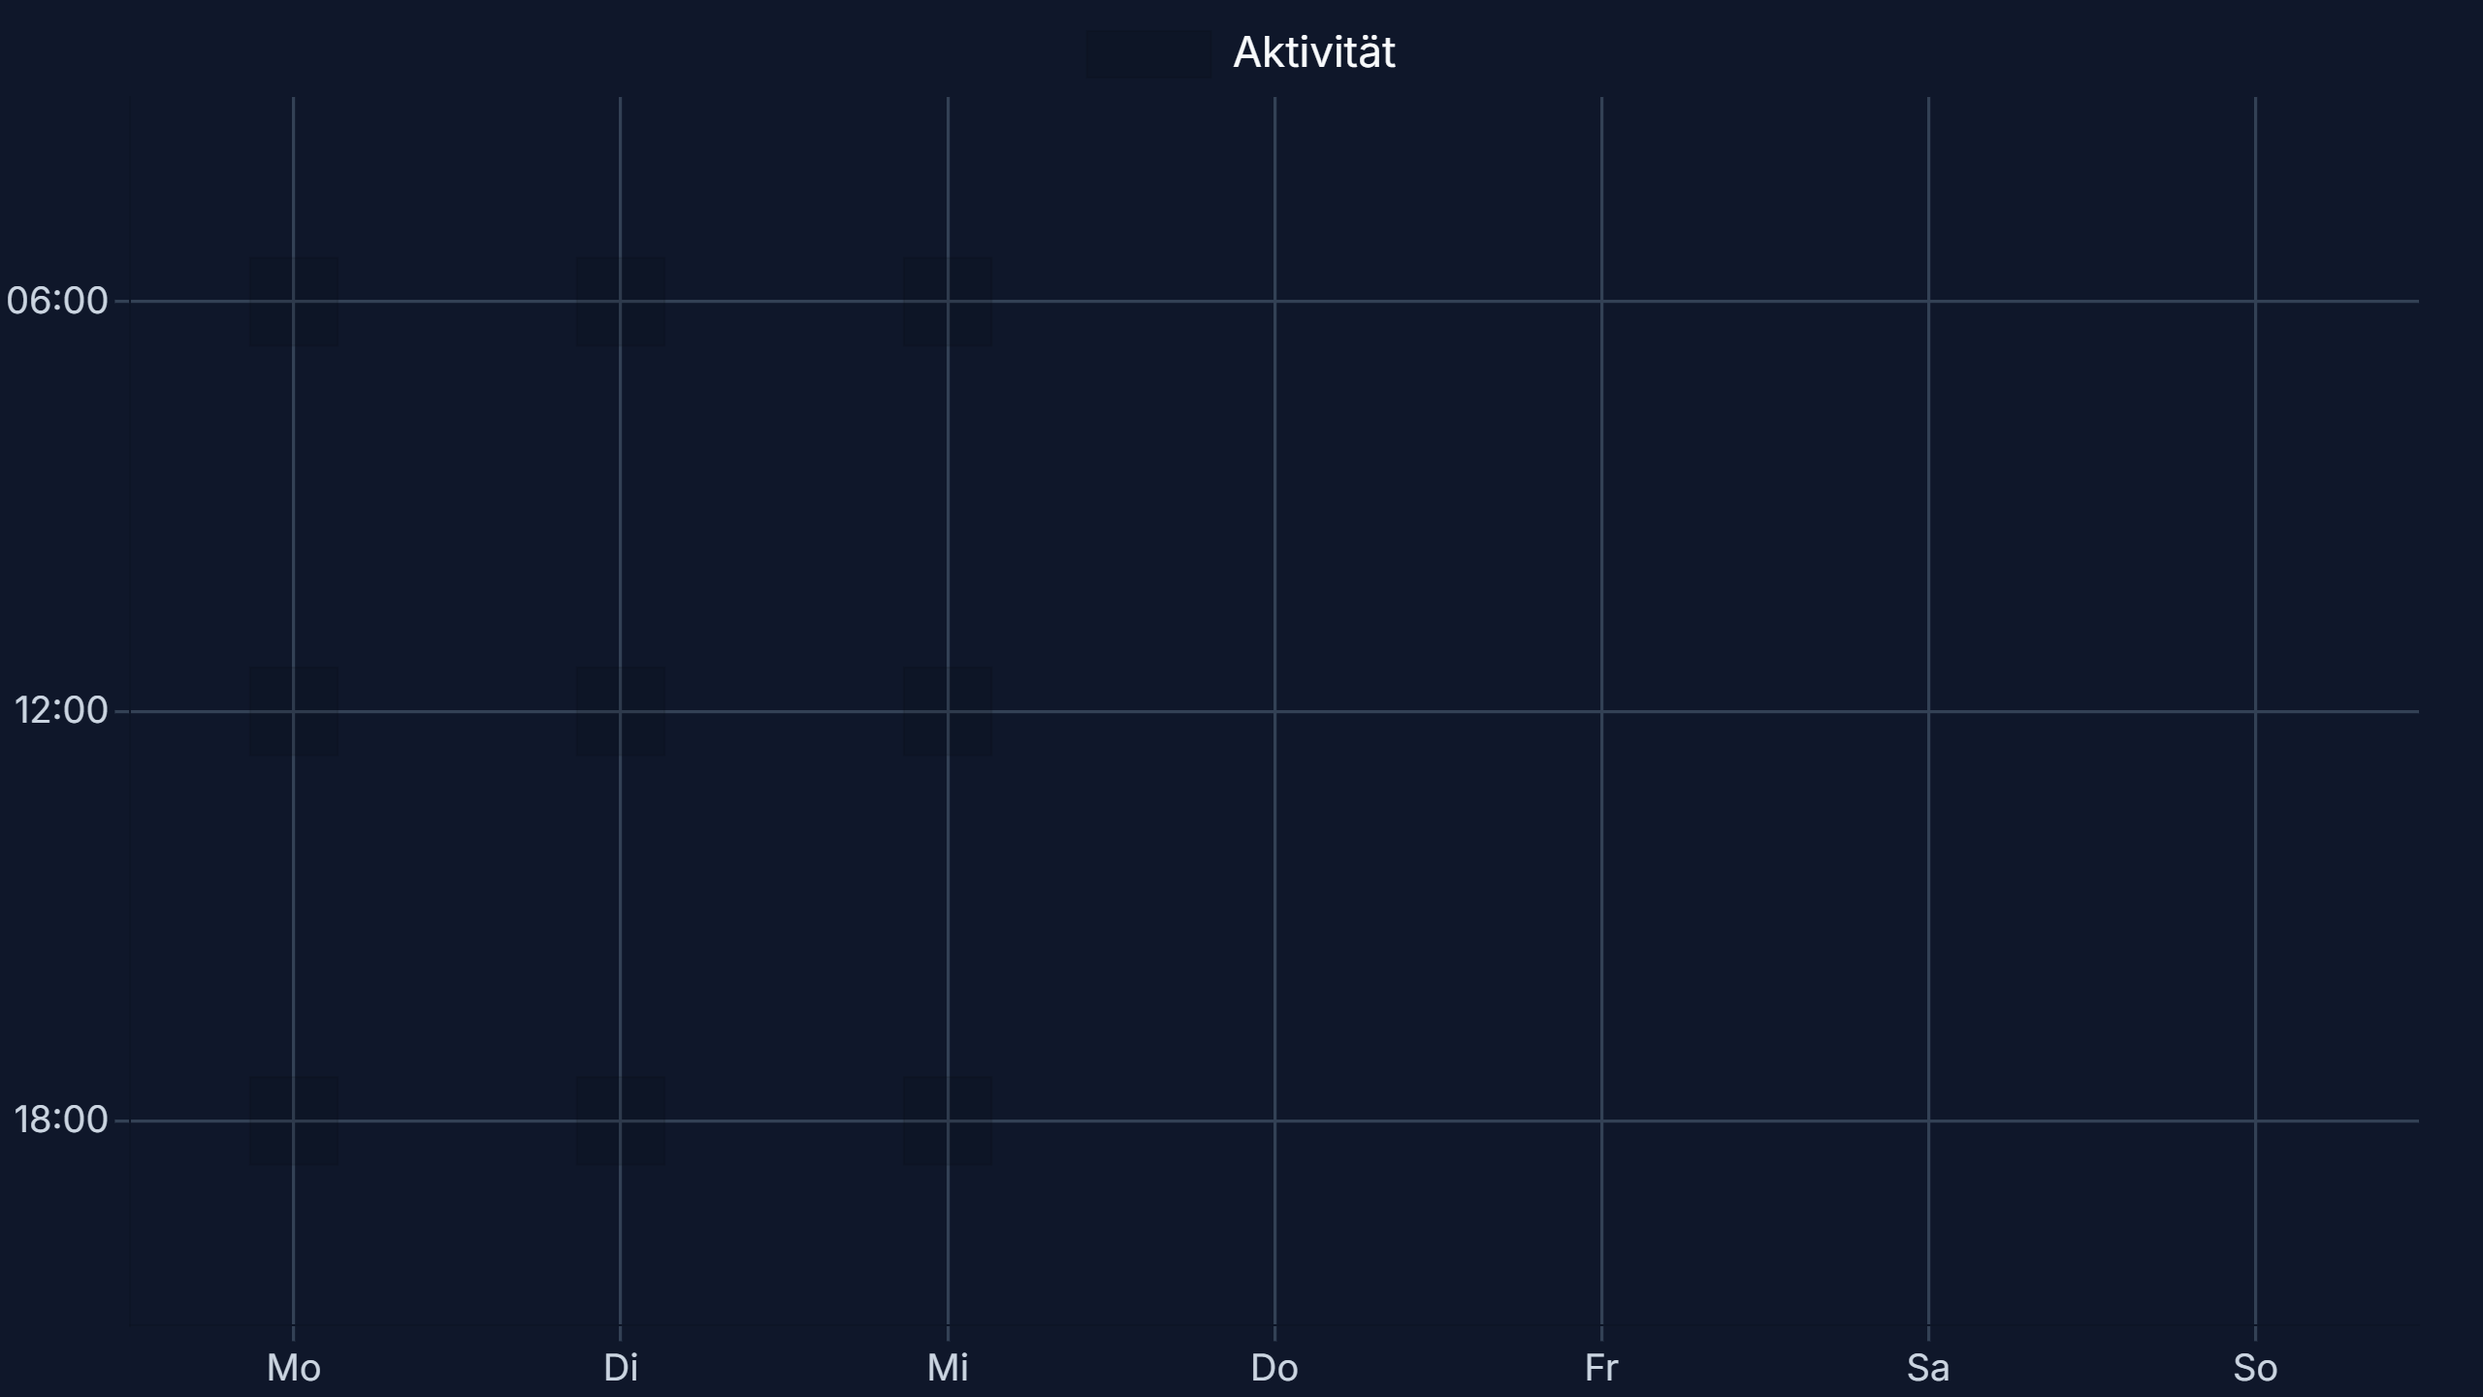
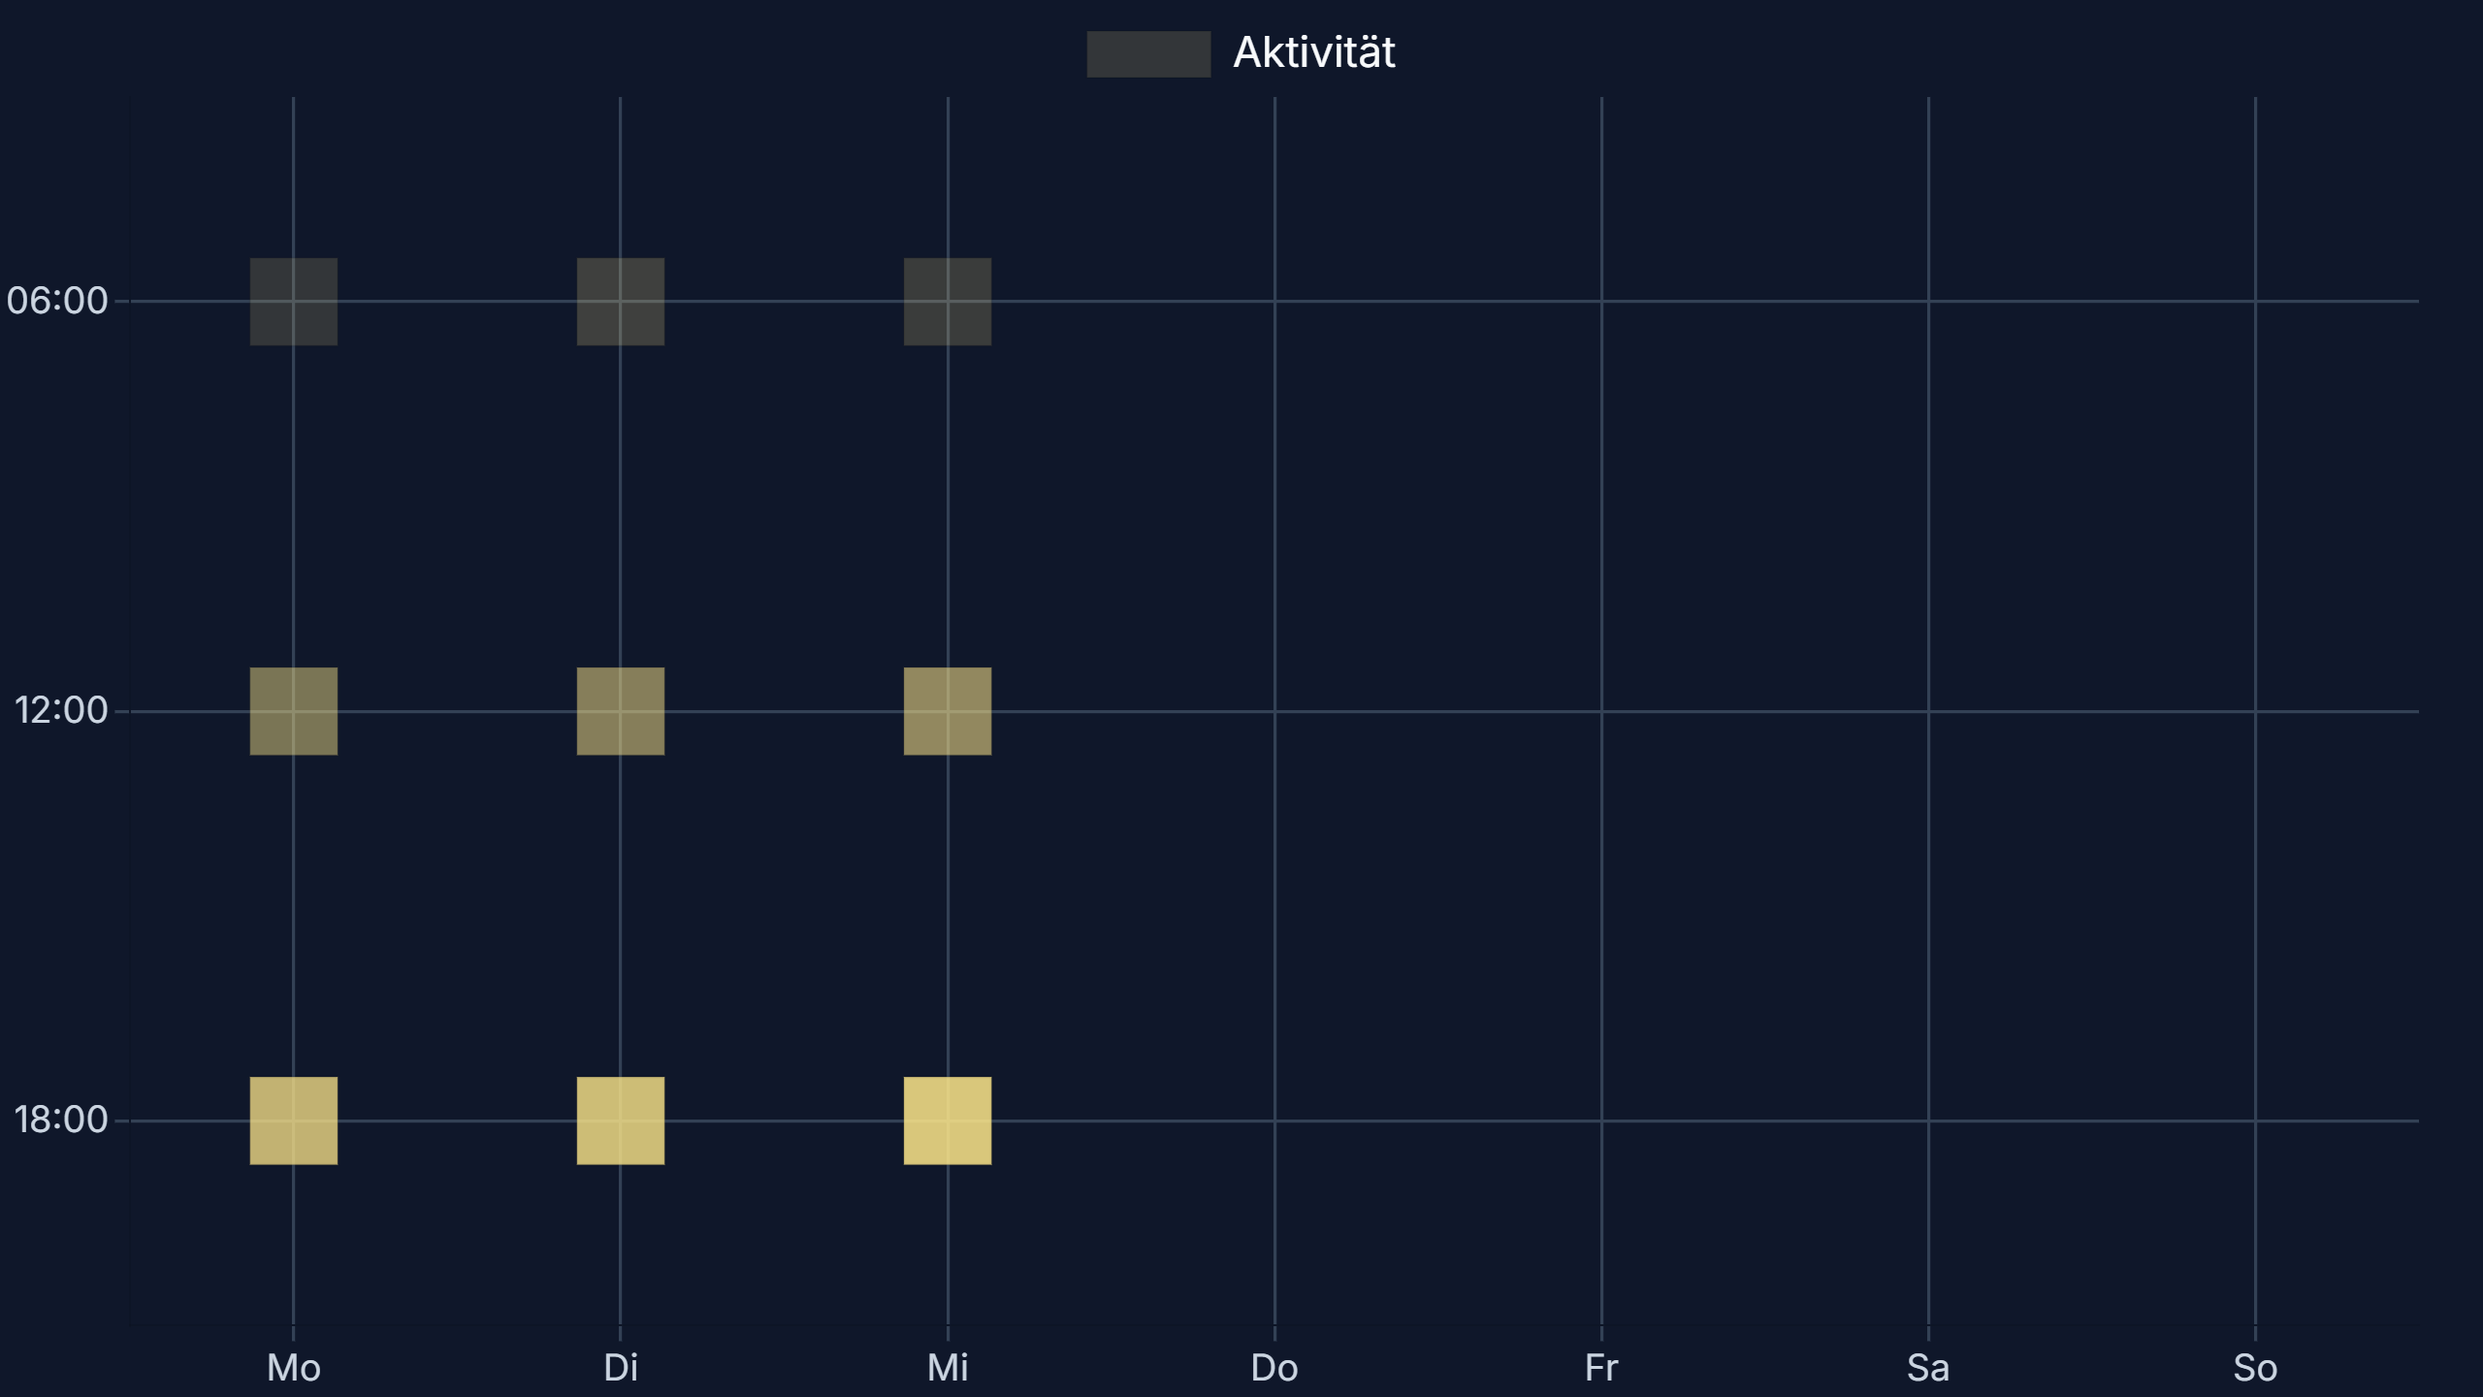
Fix Heatmap-Diagramm export

diff --git a/frontend/src/hooks/useExport.js b/frontend/src/hooks/useExport.js
@@ -243,29 +243,76 @@ export const useExport = () => {
         })
       }
 
-      // Scale ALL dataset properties proportionally to maintain visual consistency
-      // This ensures the export looks EXACTLY like the preview, just in higher resolution
-      chartConfig.data.datasets = chartConfig.data.datasets.map(ds => ({
-        ...ds,
-        // Scale all visual properties
-        borderWidth: scaleValue(ds.borderWidth),
-        pointRadius: scaleValue(ds.pointRadius),
-        pointHoverRadius: scaleValue(ds.pointHoverRadius),
-        pointBorderWidth: scaleValue(ds.pointBorderWidth),
-        borderRadius: scaleValue(ds.borderRadius),
-        barThickness: scaleValue(ds.barThickness),
-        minBarLength: scaleValue(ds.minBarLength),
-        hoverOffset: scaleValue(ds.hoverOffset),
-        // Scale border dash pattern if it exists
-        borderDash: ds.borderDash ? ds.borderDash.map(v => scaleValue(v)) : undefined,
-        // Keep non-numeric properties as-is
-        pointStyle: ds.pointStyle,
-        tension: ds.tension,
-        fill: ds.fill,
-        stepped: ds.stepped,
-        backgroundColor: ds.backgroundColor,
-        borderColor: ds.borderColor
-      }))
+      // Special handling for heatmap charts - recreate backgroundColor functions
+      if (chartType.id === 'heatmap' && chartConfig.data.datasets && Array.isArray(chartConfig.data.datasets)) {
+        const isCalendarType = config.options?.heatmapType === 'calendar'
+        
+        chartConfig.data.datasets = chartConfig.data.datasets.map(ds => {
+          if (isCalendarType) {
+            // Calendar heatmap uses color scale
+            return {
+              ...ds,
+              label: ds.label || 'Aktivität',
+              data: ds.data || [],
+              backgroundColor: function(context) {
+                const value = context.raw?.v || 0
+                const colorScale = config.colors || ['#0F172A', '#1E3A5F', '#2563EB', '#3B82F6', '#60A5FA']
+                const index = Math.min(Math.floor((value / 5) * (colorScale.length - 1)), colorScale.length - 1)
+                return colorScale[index]
+              },
+              borderWidth: scaleValue(2),
+              borderColor: '#0F172A',
+              pointRadius: scaleValue(config.options?.cellSize || 12),
+              pointStyle: 'rect'
+            }
+          } else {
+            // Standard heatmap uses alpha-based coloring
+            return {
+              ...ds,
+              pointRadius: scaleValue(config.options?.cellSize || 20),
+              pointStyle: 'rect',
+              backgroundColor: function(context) {
+                const value = context.raw?.v || 0;
+                const alpha = value / 100;
+                // Use dataset backgroundColor, or first color from config.colors, or default
+                const color = ds.backgroundColor || 
+                             (Array.isArray(config.colors) && config.colors.length > 0 ? config.colors[0] : null) ||
+                             '#3B82F6';
+                // Extract RGB from hex color
+                const hex = color.replace('#', '');
+                const r = parseInt(hex.substr(0, 2), 16);
+                const g = parseInt(hex.substr(2, 2), 16);
+                const b = parseInt(hex.substr(4, 2), 16);
+                return `rgba(${r}, ${g}, ${b}, ${alpha})`;
+              }
+            }
+          }
+        })
+      } else {
+        // Scale ALL dataset properties proportionally to maintain visual consistency
+        // This ensures the export looks EXACTLY like the preview, just in higher resolution
+        chartConfig.data.datasets = chartConfig.data.datasets.map(ds => ({
+          ...ds,
+          // Scale all visual properties
+          borderWidth: scaleValue(ds.borderWidth),
+          pointRadius: scaleValue(ds.pointRadius),
+          pointHoverRadius: scaleValue(ds.pointHoverRadius),
+          pointBorderWidth: scaleValue(ds.pointBorderWidth),
+          borderRadius: scaleValue(ds.borderRadius),
+          barThickness: scaleValue(ds.barThickness),
+          minBarLength: scaleValue(ds.minBarLength),
+          hoverOffset: scaleValue(ds.hoverOffset),
+          // Scale border dash pattern if it exists
+          borderDash: ds.borderDash ? ds.borderDash.map(v => scaleValue(v)) : undefined,
+          // Keep non-numeric properties as-is
+          pointStyle: ds.pointStyle,
+          tension: ds.tension,
+          fill: ds.fill,
+          stepped: ds.stepped,
+          backgroundColor: ds.backgroundColor,
+          borderColor: ds.borderColor
+        }))
+      }
       
       // Apply scaled barThickness at chart level if it exists in options
       if (chartConfig.options.barThickness) {

diff --git a/frontend/src/components/ExportPreviewModal.jsx b/frontend/src/components/ExportPreviewModal.jsx
@@ -334,25 +334,72 @@ export default function ExportPreviewModal({
         })
       }
 
-      // Scale dataset properties
-      chartConfig.data.datasets = chartConfig.data.datasets.map(ds => ({
-        ...ds,
-        borderWidth: scaleValue(ds.borderWidth),
-        pointRadius: scaleValue(ds.pointRadius),
-        pointHoverRadius: scaleValue(ds.pointHoverRadius),
-        pointBorderWidth: scaleValue(ds.pointBorderWidth),
-        borderRadius: scaleValue(ds.borderRadius),
-        barThickness: scaleValue(ds.barThickness),
-        minBarLength: scaleValue(ds.minBarLength),
-        hoverOffset: scaleValue(ds.hoverOffset),
-        borderDash: ds.borderDash ? ds.borderDash.map(v => scaleValue(v)) : undefined,
-        pointStyle: ds.pointStyle,
-        tension: ds.tension,
-        fill: ds.fill,
-        stepped: ds.stepped,
-        backgroundColor: ds.backgroundColor,
-        borderColor: ds.borderColor
-      }))
+      // Special handling for heatmap charts - recreate backgroundColor functions
+      if (chartType.id === 'heatmap' && chartConfig.data.datasets && Array.isArray(chartConfig.data.datasets)) {
+        const isCalendarType = config.options?.heatmapType === 'calendar'
+        
+        chartConfig.data.datasets = chartConfig.data.datasets.map(ds => {
+          if (isCalendarType) {
+            // Calendar heatmap uses color scale
+            return {
+              ...ds,
+              label: ds.label || 'Aktivität',
+              data: ds.data || [],
+              backgroundColor: function(context) {
+                const value = context.raw?.v || 0
+                const colorScale = config.colors || ['#0F172A', '#1E3A5F', '#2563EB', '#3B82F6', '#60A5FA']
+                const index = Math.min(Math.floor((value / 5) * (colorScale.length - 1)), colorScale.length - 1)
+                return colorScale[index]
+              },
+              borderWidth: scaleValue(2),
+              borderColor: '#0F172A',
+              pointRadius: scaleValue(config.options?.cellSize || 12),
+              pointStyle: 'rect'
+            }
+          } else {
+            // Standard heatmap uses alpha-based coloring
+            return {
+              ...ds,
+              pointRadius: scaleValue(config.options?.cellSize || 20),
+              pointStyle: 'rect',
+              backgroundColor: function(context) {
+                const value = context.raw?.v || 0;
+                const alpha = value / 100;
+                // Use dataset backgroundColor, or first color from config.colors, or default
+                const color = ds.backgroundColor || 
+                             (Array.isArray(config.colors) && config.colors.length > 0 ? config.colors[0] : null) ||
+                             '#3B82F6';
+                // Extract RGB from hex color
+                const hex = color.replace('#', '');
+                const r = parseInt(hex.substr(0, 2), 16);
+                const g = parseInt(hex.substr(2, 2), 16);
+                const b = parseInt(hex.substr(4, 2), 16);
+                return `rgba(${r}, ${g}, ${b}, ${alpha})`;
+              }
+            }
+          }
+        })
+      } else {
+        // Scale dataset properties
+        chartConfig.data.datasets = chartConfig.data.datasets.map(ds => ({
+          ...ds,
+          borderWidth: scaleValue(ds.borderWidth),
+          pointRadius: scaleValue(ds.pointRadius),
+          pointHoverRadius: scaleValue(ds.pointHoverRadius),
+          pointBorderWidth: scaleValue(ds.pointBorderWidth),
+          borderRadius: scaleValue(ds.borderRadius),
+          barThickness: scaleValue(ds.barThickness),
+          minBarLength: scaleValue(ds.minBarLength),
+          hoverOffset: scaleValue(ds.hoverOffset),
+          borderDash: ds.borderDash ? ds.borderDash.map(v => scaleValue(v)) : undefined,
+          pointStyle: ds.pointStyle,
+          tension: ds.tension,
+          fill: ds.fill,
+          stepped: ds.stepped,
+          backgroundColor: ds.backgroundColor,
+          borderColor: ds.borderColor
+        }))
+      }
 
       // Apply scaled barThickness at chart level
       if (chartConfig.options.barThickness) {

diff --git a/frontend/src/components/ChartConfigPanel.jsx b/frontend/src/components/ChartConfigPanel.jsx
@@ -822,6 +822,8 @@ function StylingTab({ chartType, config, onConfigChange }) {
   const hasColors = !!schema.colors
   const hasBackground = !!schema.backgroundColor
   const isChoropleth = chartType?.id === 'choropleth'
+  const isHeatmap = chartType?.id === 'heatmap'
+  const isCalendarHeatmap = isHeatmap && config.options?.heatmapType === 'calendar'
 
   const backgroundPresets = [
     { name: 'Dunkel', value: '#0F172A' },
@@ -876,7 +878,7 @@ function StylingTab({ chartType, config, onConfigChange }) {
     })
   }
 
-  if (!hasColors && !hasBackground && !isChoropleth) {
+  if (!hasColors && !hasBackground && !isChoropleth && !isHeatmap) {
     return (
       <div className="text-sm text-dark-textGray">
         Für diesen Diagrammtyp sind keine Styling-Optionen definiert.
@@ -966,7 +968,61 @@ function StylingTab({ chartType, config, onConfigChange }) {
         </div>
       )}
 
-      {hasColors && (
+      {isHeatmap && (
+        <div className="bg-dark-sidebar border border-gray-700 rounded-lg p-4 space-y-4">
+          <div>
+            <h3 className="text-sm font-semibold text-dark-textLight mb-1">Heatmap-Farben</h3>
+            <p className="text-xs text-dark-textGray">
+              {isCalendarHeatmap 
+                ? 'Passe die Farbpalette für die Kalender-Heatmap an. Die Farben werden basierend auf den Werten zugeordnet.'
+                : 'Passe die Basis-Farbe für die Standard-Heatmap an. Die Intensität wird basierend auf den Werten angepasst.'}
+            </p>
+          </div>
+          
+          {isCalendarHeatmap ? (
+            <ColorListEditor
+              label="Farbpalette"
+              values={Array.isArray(config.colors) ? config.colors : ['#0F172A', '#1E3A5F', '#2563EB', '#3B82F6', '#60A5FA']}
+              onChange={(values) => onConfigChange({ colors: values })}
+              maxColors={9}
+            />
+          ) : (
+            <div>
+              <label className="block text-xs font-medium text-dark-textLight mb-2">Basis-Farbe</label>
+              <EnhancedColorPicker
+                value={Array.isArray(config.colors) && config.colors.length > 0 
+                  ? config.colors[0] 
+                  : (config.datasets?.[0]?.backgroundColor || '#3B82F6')}
+                onChange={(newColor) => {
+                  // Update config.colors array with the new color as first element
+                  const currentColors = Array.isArray(config.colors) ? config.colors : []
+                  const updatedColors = [newColor, ...currentColors.slice(1)]
+                  if (updatedColors.length === 0) {
+                    updatedColors.push(newColor)
+                  }
+                  
+                  // Also update the first dataset's backgroundColor
+                  const updatedDatasets = config.datasets?.map((ds, idx) => 
+                    idx === 0 ? { ...ds, backgroundColor: newColor } : ds
+                  ) || []
+                  
+                  onConfigChange({ 
+                    colors: updatedColors,
+                    datasets: updatedDatasets
+                  })
+                }}
+                label="Basis-Farbe"
+                size="md"
+              />
+              <p className="text-xs text-dark-textGray mt-2">
+                Die Intensität der Farbe wird automatisch basierend auf den Werten (v) angepasst.
+              </p>
+            </div>
+          )}
+        </div>
+      )}
+
+      {hasColors && !isHeatmap && (
         <div className="space-y-4">
           {/* Color Palette Selector */}
           <ColorPaletteSelector

diff --git a/frontend/src/components/ChartPreview.jsx b/frontend/src/components/ChartPreview.jsx
@@ -1260,7 +1260,10 @@ function prepareChartData(chartType, config) {
               backgroundColor: function(context) {
                 const value = context.raw?.v || 0;
                 const alpha = value / 100;
-                const color = ds.backgroundColor || '#3B82F6';
+                // Use dataset backgroundColor, or first color from config.colors, or default
+                const color = ds.backgroundColor || 
+                             (Array.isArray(config.colors) && config.colors.length > 0 ? config.colors[0] : null) ||
+                             '#3B82F6';
                 // Extract RGB from hex color
                 const hex = color.replace('#', '');
                 const r = parseInt(hex.substr(0, 2), 16);

diff --git a/backend/modules/heatmapChart.js b/backend/modules/heatmapChart.js
@@ -37,6 +37,10 @@ export default {
         }
       ]
     },
+    colors: {
+      type: "array",
+      default: ["#0F172A", "#1E3A5F", "#2563EB", "#3B82F6", "#60A5FA"]
+    },
     backgroundColor: {
       type: "string",
       default: "#0F172A"
